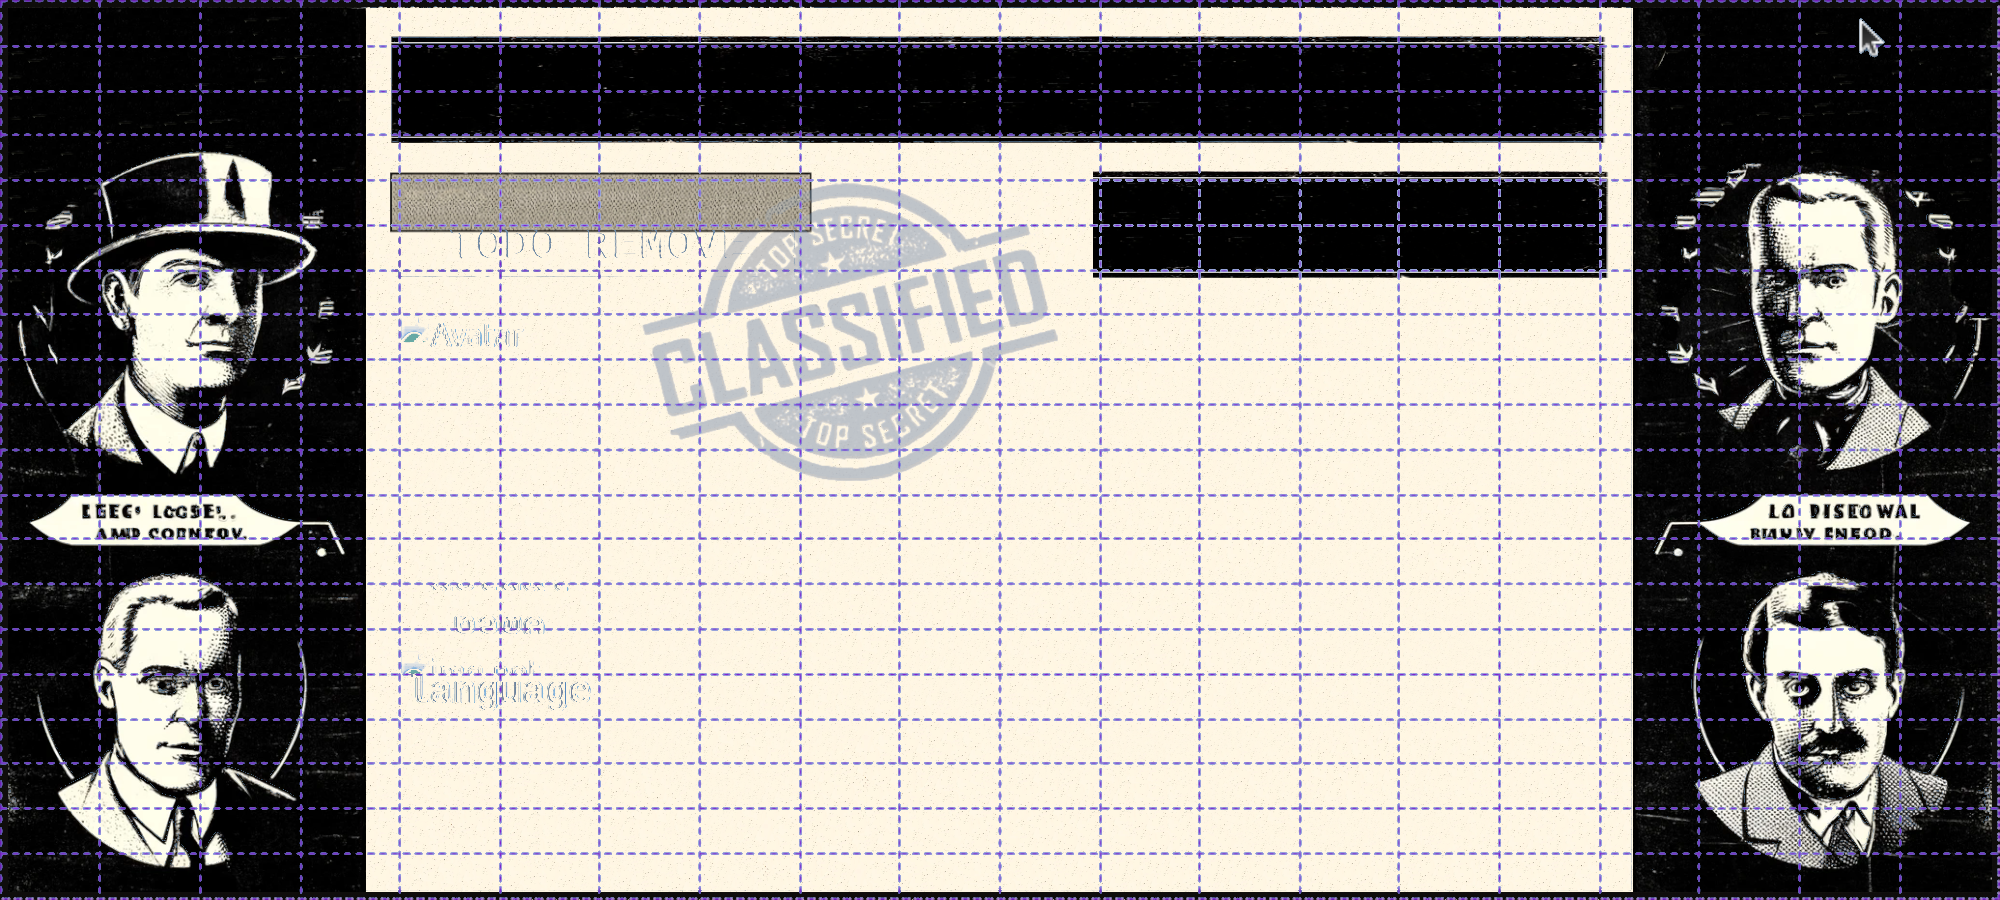
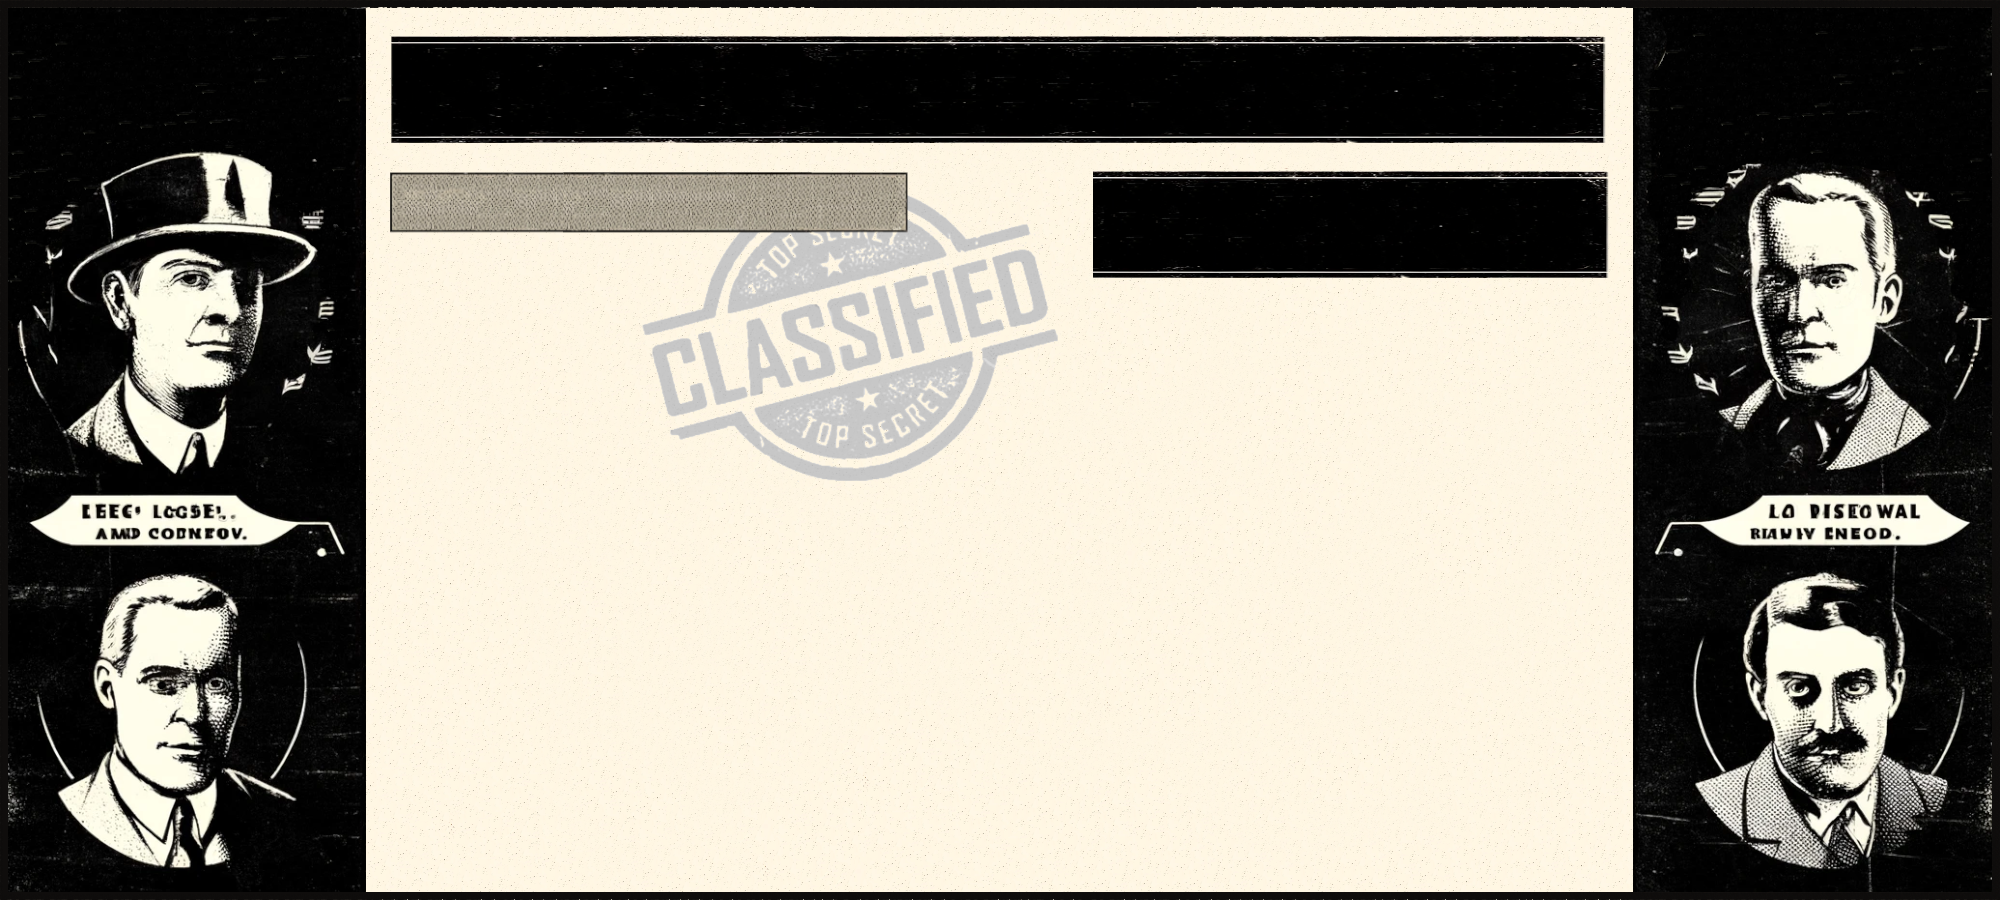
profile layout and block is done

diff --git a/Frontend/html/profile.html b/Frontend/html/profile.html
@@ -1,7 +1,7 @@
 <div class="view-base  view-background-color">
     <div class="view-container">
         <div class="view-image-wrapper">
-            <img src="../assets/backgrounds/profile.png" alt="Background Image" class="view-background-image" draggable="false">
+            <img id="profile-view-background-image"src="../assets/backgrounds/profile.png" alt="Background Image" class="view-background-image" draggable="false">
             <div class="view-overlay-grid">
                 <!-- DETAILS LEFT -->
                 <h4  id="username"        class="grid-cell default-grid-area uname">TODO REMOVE</h4>
@@ -10,6 +10,9 @@
                 <h5  id="last-seen-text"  class="grid-cell default-grid-area lseent blackout">last seen</h5>
                 <img id="last-seen-image" class="grid-cell default-grid-area lseeni blackout" alt="Last seen" draggable="false">
                 <h5  id="language"        class="grid-cell default-grid-area lang blackout">lang</h5>
+
+                <!-- NOTES -->
+                 <h6 id="notes" class="grid-cell default-grid-area notes"></h6>
                 <!-- BUTTONS -->
                 <img id="button-top-left"     class="grid-cell default-grid-area btn1 modal-button modal-image-button sound-button" draggable="false">
                 <img id="button-top-middle"   class="grid-cell default-grid-area btn2 modal-button modal-image-button sound-button" draggable="false">
@@ -23,11 +26,11 @@
                 <h5 id="stats-tournament-second-place"  class="grid-cell default-grid-area statt2 game-stats-parameters ">2nd place: 0/0 </h5>
                 <h5 id="stats-tournament-third-place"   class="grid-cell default-grid-area statt3 game-stats-parameters">3rd place: 0/0 </h5>
                 <!-- EXPERIENCE -->
-                <h4 class="grid-cell default-grid-area exph blackout">EXPERIENCE</h4>
+                <h4 class="grid-cell default-grid-area exph blackout">PROGRESS</h4>
                 <!-- EXPERIENCE NAMES -->
                 <h5 id="score-skill-name"          class="grid-cell default-grid-area expns  progress-grid-name">Skill</h5>
-                <h5 id="score-game-exp-name"       class="grid-cell default-grid-area expng  progress-grid-name">GExp</h5>
-                <h5 id="score-tournament-exp-name" class="grid-cell default-grid-area expnt  progress-grid-name">TExp</h5>
+                <h5 id="score-game-exp-name"       class="grid-cell default-grid-area expng  progress-grid-name">Game</h5>
+                <h5 id="score-tournament-exp-name" class="grid-cell default-grid-area expnt  progress-grid-name">Tournament</h5>
                 <h5 id="score-total-name"          class="grid-cell default-grid-area expnsu progress-grid-name">Total</h5>
                 <!-- EXPERENCE PORGRESS BARS -->
 
@@ -63,21 +66,21 @@
             ".      .      .      .      .      .      .      .      .      .      .      .      .      .      .      .      .      .      .      .     "
             ".      .      .      .      .      .      .      .      .      .      .      .      .      .      .      .      .      .      .      .     "
             ".      .      .      .      .      .      .      .      .      .      .      .      .      .      .      .      .      .      .      .     "
-            ".      .      .      .      uname  uname  uname  uname  .      .      .      btn1   btn2   btn3   btn4   btn5   .      .      .      .     "
+            ".      .      .      .      uname  uname  uname  uname  lseeni .      .      btn1   btn2   btn3   btn4   btn5   .      .      .      .     "
             ".      .      .      .      .      .      .      .      .      .      .      btn1   btn2   btn3   btn4   btn5   .      .      .      .     "
             ".      .      .      .      avatar avatar .      bname  bname  bname  .      .      .      .      .      .      .      .      .      .     "
             ".      .      .      .      avatar avatar .      bname  bname  bname  .      stath  stath  stath  stath  stath  .      .      .      .     "
-            ".      .      .      .      avatar avatar lseeni lseent lseent lseent .      statg  statg  statg  statg  statg  .      .      .      .     "
+            ".      .      .      .      avatar avatar .      lseent lseent lseent .      statg  statg  statg  statg  statg  .      .      .      .     "
             ".      .      .      .      avatar avatar .      lseent lseent lseent .      statt1 statt1 statt1 statt1 statt1 .      .      .      .     "
             ".      .      .      .      avatar avatar .      lang   lang   lang   .      statt2 statt2 statt2 statt2 statt2 .      .      .      .     "
             ".      .      .      .      avatar avatar .      lang   lang   lang   .      statt3 statt3 statt3 statt3 statt3 .      .      .      .     "
-            ".      .      .      .      .      .      .      .      .      .      .      .      .      .      .      .      .      .      .      .     "
-            ".      .      .      .      .      .      .      .      .      .      .      exph   exph   exph   exph   exph   .      .      .      .     "
-            ".      .      .      .      .      .      .      .      .      .      .      expns  expns  expps  expps  expps  .      .      .      .     "
-            ".      .      .      .      .      .      .      .      .      .      .      expng  expng  exppg  exppg  exppg  .      .      .      .     "
-            ".      .      .      .      .      .      .      .      .      .      .      expnt  expnt  exppt  exppt  exppt  .      .      .      .     "
-            ".      .      .      .      .      .      .      .      .      .      .      expnsu expnsu exppsu exppsu exppsu .      .      .      .     "
-            ".      .      .      .      .      .      .      .      .      .      .      .      .      .      .      .      .      .      .      .     "
+            ".      .      .      .      notes  notes  notes  notes  notes  notes  .      .      .      .      .      .      .      .      .      .     "
+            ".      .      .      .      notes  notes  notes  notes  notes  notes  .      .      exph   exph   exph   .      .      .      .      .     "
+            ".      .      .      .      notes  notes  notes  notes  notes  notes  expns  expns  expps  expps  expps  .      .      .      .      .     "
+            ".      .      .      .      notes  notes  notes  notes  notes  notes  expng  expng  exppg  exppg  exppg  .      .      .      .      .     "
+            ".      .      .      .      notes  notes  notes  notes  notes  notes  expnt  expnt  exppt  exppt  exppt  .      .      .      .      .     "
+            ".      .      .      .      notes  notes  notes  notes  notes  notes  expnsu expnsu exppsu exppsu exppsu .      .      .      .      .     "
+            ".      .      .      .      notes  notes  notes  notes  notes  notes  .      .      .      .      .      .      .      .      .      .     "
             ".      .      .      .      .      .      .      .      .      .      .      .      .      .      .      .      .      .      .      .     "
     }
 
@@ -110,6 +113,14 @@
     .lang {
         grid-area: lang;
         text-align: left;
+    }
+    .notes {
+        grid-area: notes;
+        text-align: center;
+        border-radius: 2px;
+        height: 90% !important;
+        padding: 5px;
+        font-style: italic;
     }
     /* BUTTONS */
     .btn1 {
@@ -154,19 +165,23 @@
     /* EXPERIENCE NAMES */
     .expns {
         grid-area: expns;
-        text-align: left;
+        text-align: right;
+        margin-right: 20px;
     }
     .expng {
         grid-area: expng;
-        text-align: left;
+        text-align: right;
+        margin-right: 20px;
     }
     .expnt {
         grid-area: expnt;
-        text-align: left;
+        text-align: right;
+        margin-right: 20px;
     }
     .expnsu {
         grid-area: expnsu;
-        text-align: left;
+        text-align: right;
+        margin-right: 20px;
     }
     /* EXPERENCE PORGRESS BARS */
     .expps {

diff --git a/Frontend/js/views/profile/configs.js b/Frontend/js/views/profile/configs.js
@@ -138,10 +138,10 @@ export default {
 
         /* If user is blocked, the page is blacked out */
         blackout() {
-            let elements = this.domManip.$queryAll(".blackout, .game-stats-parameters, .progress, .last-seen-image, .button-bottom-left, .button-bottom-right");
-            for (let element of elements) {
-                element.style.backgroundColor = "black";
-            }
+            this.domManip.$id("profile-view-background-image").src = "../assets/backgrounds/profile-blackout.png";
+            let skillBars = this.domManip.$queryAll(".progress, .game-stats-parameters, .lseeni");
+            for (let element of skillBars)
+                element.style.display = "none";
         },
 
         hideElement(elementId){
@@ -241,12 +241,10 @@ export default {
 			call(`user/profile/${this.routeParams.id}/`, "GET").then((res)=>{
                 this.result = res;
                 console.log("profileData ", this.result);
-        
                 // Convert lastLogin to local time using moment.js
                 if (res.lastLogin) {
                     this.result.lastLoginFormatted = loadTimestamp(res.lastLogin);
                 }
-        
                 this.setViewAttributes(true)
                 populateInfoAndStats(res);
                 this.populateButtons();

diff --git a/Frontend/js/views/profile/script.js b/Frontend/js/views/profile/script.js
@@ -8,10 +8,12 @@ function populateUserInfo(res) {
     const element = $id("avatar");
     element.src = window.origin + '/media/avatars/' + res.avatar;
     let birthName =$id("birth-name");
-    birthName.innerHTML = `<b>${translate("profile", "birthName")}</b>${res.lastName}, ${res.firstName}`;
+    birthName.innerHTML = `<b>${translate("profile", "birthName")}<b>${res.lastName}, ${res.firstName}`;
+    let notes =$id("notes");
+    if (res.notes !== "")
+        notes.innerHTML = `<b>${translate("profile", "notes")}<b>${res.notes}`;
     let lastSeenText =$id("last-seen-text");
     let lastSeenImg =$id("last-seen-image");
-
     if (res.online)
         lastSeenImg.src = "../../../../assets/icons_128x128/icon_online.png";
     else

diff --git a/Frontend/js/views/home/objects.js b/Frontend/js/views/home/objects.js
@@ -1,5 +1,5 @@
 export const imageDir = '../../../assets/homeView/';
-import { AIModalCallback, battleModalCallback, 
+import { AIModalCallback, battleModalCallback,
     tournamentModalCallback, chatRoomModalCallback,
     leaderboardModalCallback } from './callbacks.js';
 import { translate } from '../../locale/locale.js';
@@ -161,7 +161,6 @@ export const backgroundImageBook = [
         height: 200,
         shadow: 3,
     },
-    
 ]
 
 // Array containing the objects for the labels
